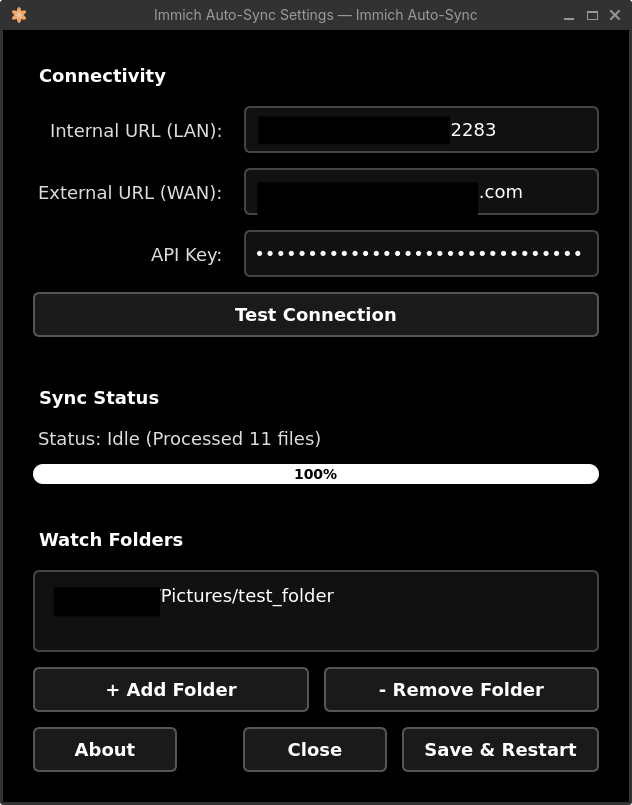
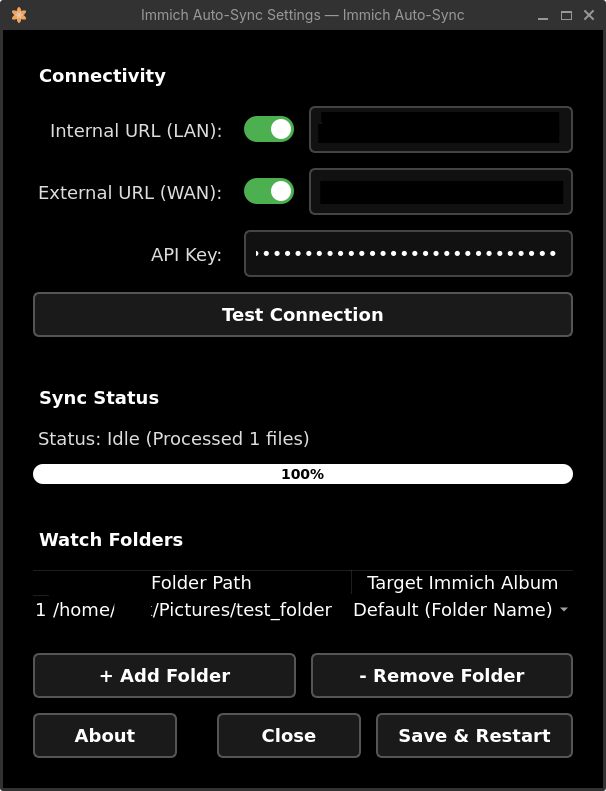
feat: release version 1.0.0 with animated UI toggles and updated changelog

diff --git a/src/settings_window.py b/src/settings_window.py
@@ -315,7 +315,7 @@ class SettingsWindow(QWidget):
         QMessageBox.about(self, "About Immich Auto-Sync", 
             "<h3>Immich Auto-Sync</h3>"
             "<p>A daemon-based synchronization tool for automatically uploading media files to an Immich server.</p>"
-            "<p>Version: 0.2.0<br/>"
+            "<p>Version: 1.0.0<br/>"
             "License: GPLv3</p>"
             "<p>Icon by Round Icons on Unsplash.</p>"
             "<p><a href='https://github.com/nicx17/immich_sync_app'>https://github.com/nicx17/immich_sync_app</a></p>")

diff --git a/setup.py b/setup.py
@@ -2,7 +2,7 @@ from setuptools import setup, find_packages
 
 setup(
     name="immich-sync",
-    version="0.2.0",
+    version="1.0.0",
     packages=find_packages(),
     install_requires=[
         "watchdog>=4.0.0",

diff --git a/CHANGELOG.md b/CHANGELOG.md
@@ -7,6 +7,8 @@ and this project adheres to [Semantic Versioning](https://semver.org/spec/v2.0.0
 
 ## [Unreleased]
 
+## [1.0.0] - 2026-03-06
+
 ### Added
 - **Animated UI Toggles**: Added custom beautiful `SlideSwitch` CSS animations to the Settings Window allowing users to visually toggle Internal (LAN) vs External (WAN) URL behaviors on and off.
 - Config now persists `internal_url_enabled` and `external_url_enabled` booleans.
